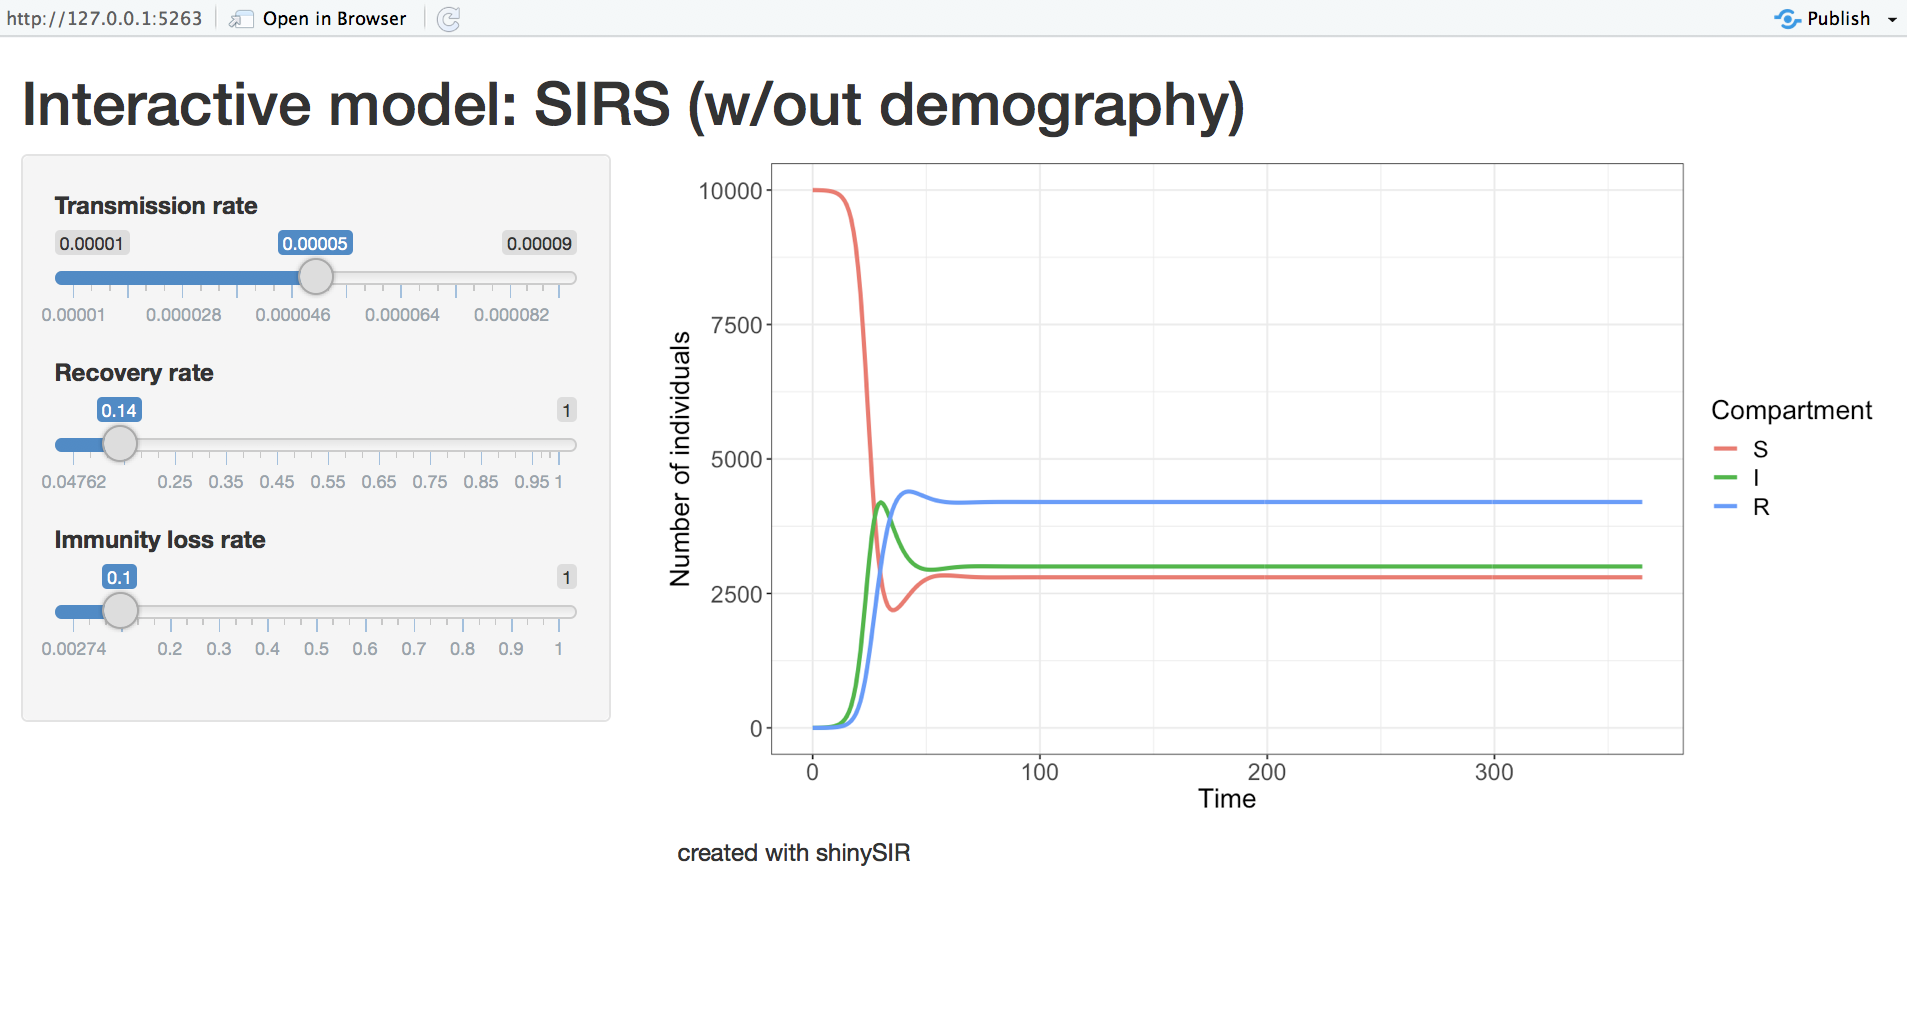
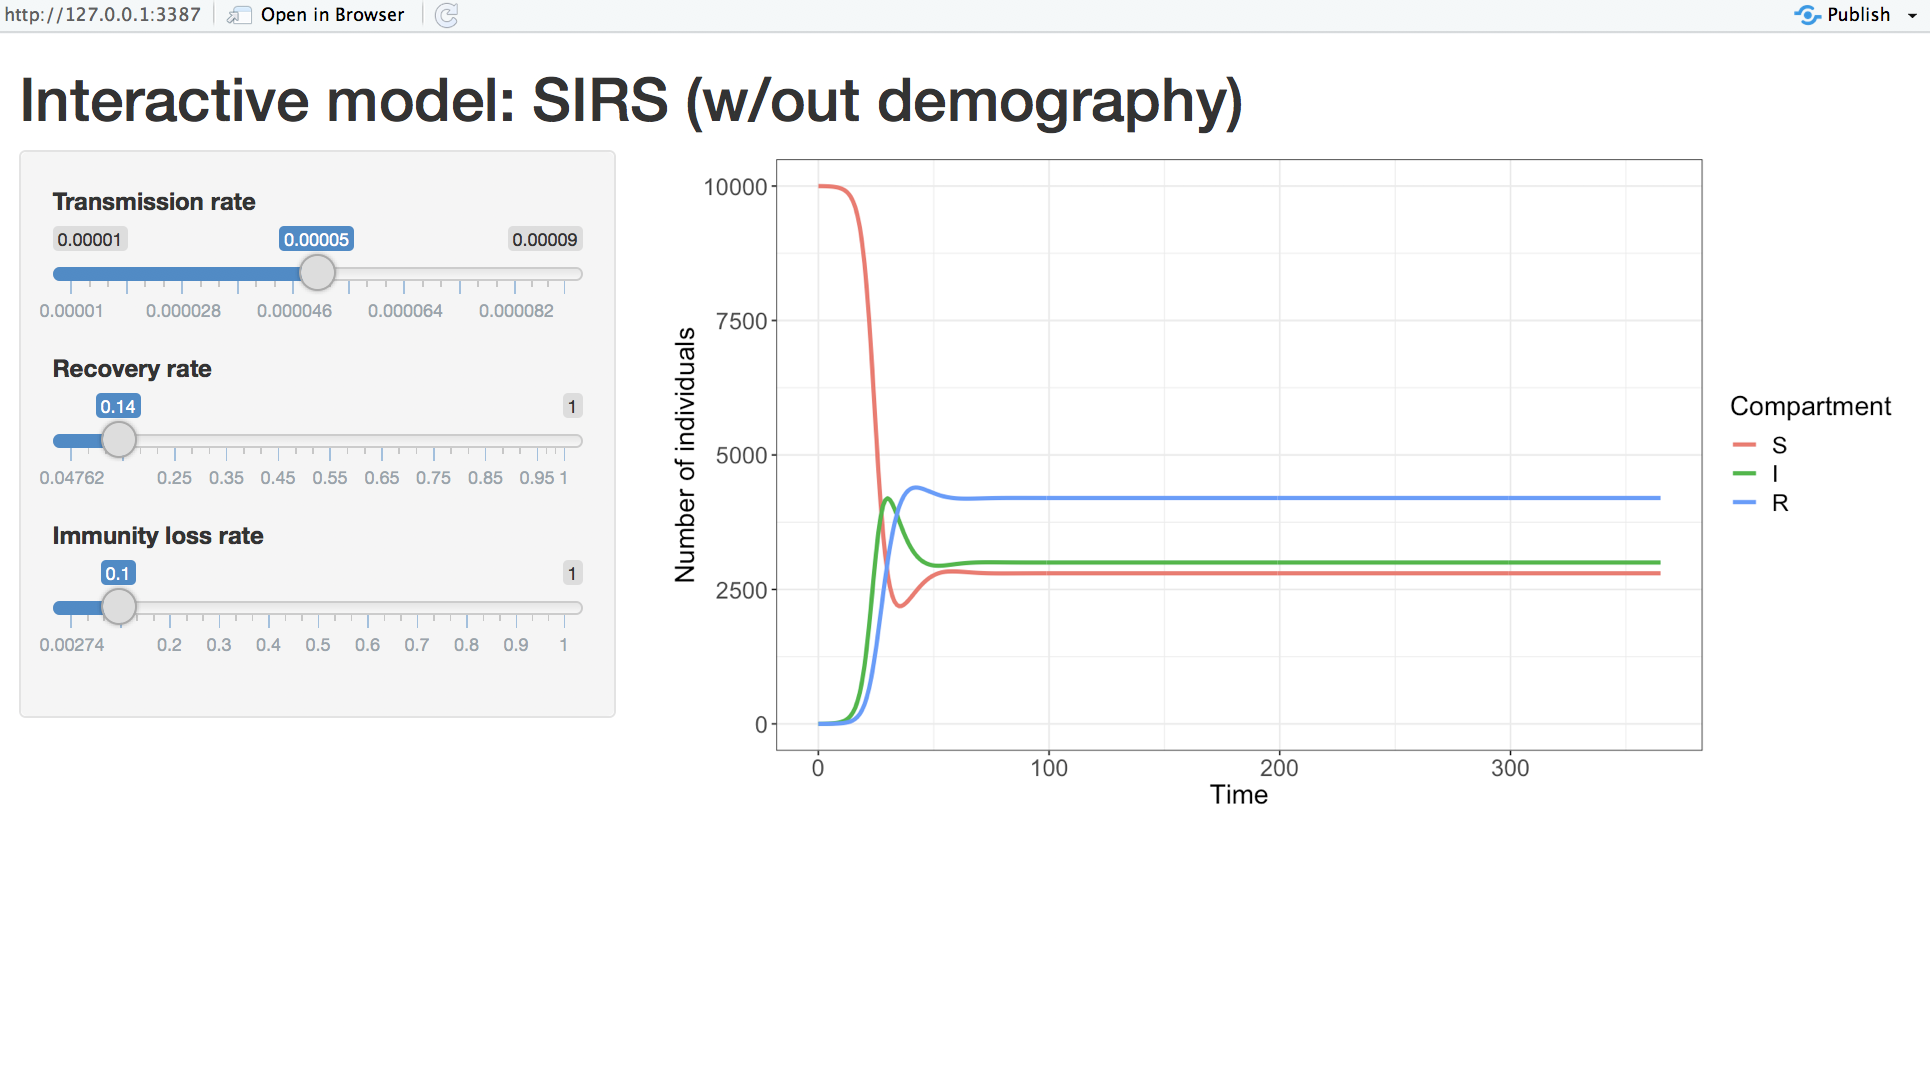
update README

diff --git a/README.md b/README.md
@@ -73,15 +73,17 @@ mySIRS <- function(t, y, parms) {
 }
 ```
 
-The interactive plot can then be created by calling this function with `neweqns`, and specifying vectors for the parameter attributes, including parameter starting values (`parm0`), names to be displayed in the interactive menu (`parm_names`), and minimum and maximum values for the interactive menu (`parm_min` and `parm_max`, respectively).
+The interactive plot can then be created by calling this function with `neweqns`, specifying initial conditions for all model variables (`ics`), and specifying vectors for the parameter attributes, including parameter starting values (`parm0`), names to be displayed in the interactive menu (`parm_names`), and minimum and maximum values for the interactive menu (`parm_min` and `parm_max`, respectively).
 
 ``` r
 
-run_shiny(model = "SIRS (w/out demography)", neweqns = mySIRS,
-           parm0 = c(beta = 5e-5, gamma = 1/7, delta = 0.1),
-           parm_names = c("Transmission rate", "Recovery rate", "Loss of immunity"),
-           parm_min = c(beta = 1e-5, gamma = 1/21, delta = 1/365),
-           parm_max = c(beta = 9e-5, gamma = 1 , delta = 1))
+run_shiny(model = "SIRS (w/out demography)", 
+          neweqns = mySIRS,
+          ics = c(S = 9999, I = 1, R = 0),
+          parm0 = c(beta = 5e-5, gamma = 1/7, delta = 0.1),
+          parm_names = c("Transmission rate", "Recovery rate", "Loss of immunity"),
+          parm_min = c(beta = 1e-5, gamma = 1/21, delta = 1/365),
+          parm_max = c(beta = 9e-5, gamma = 1 , delta = 1))
 ```
 
 <img src="shinySIRSscreenshot.png" style="width:100.0%" />
